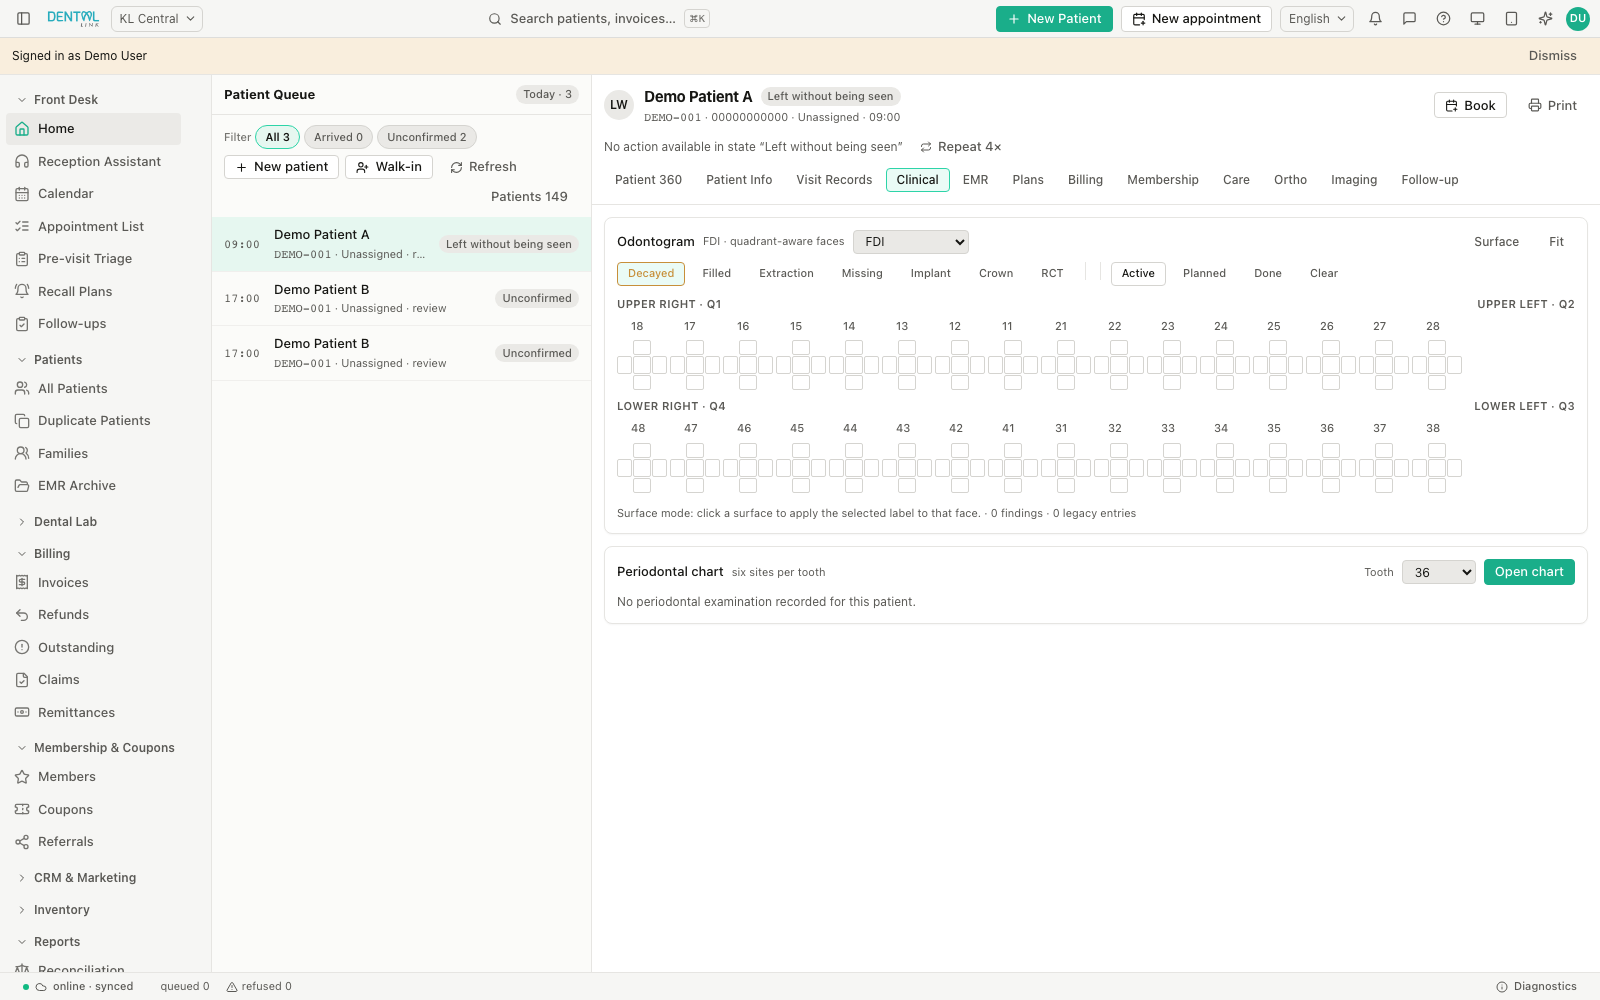
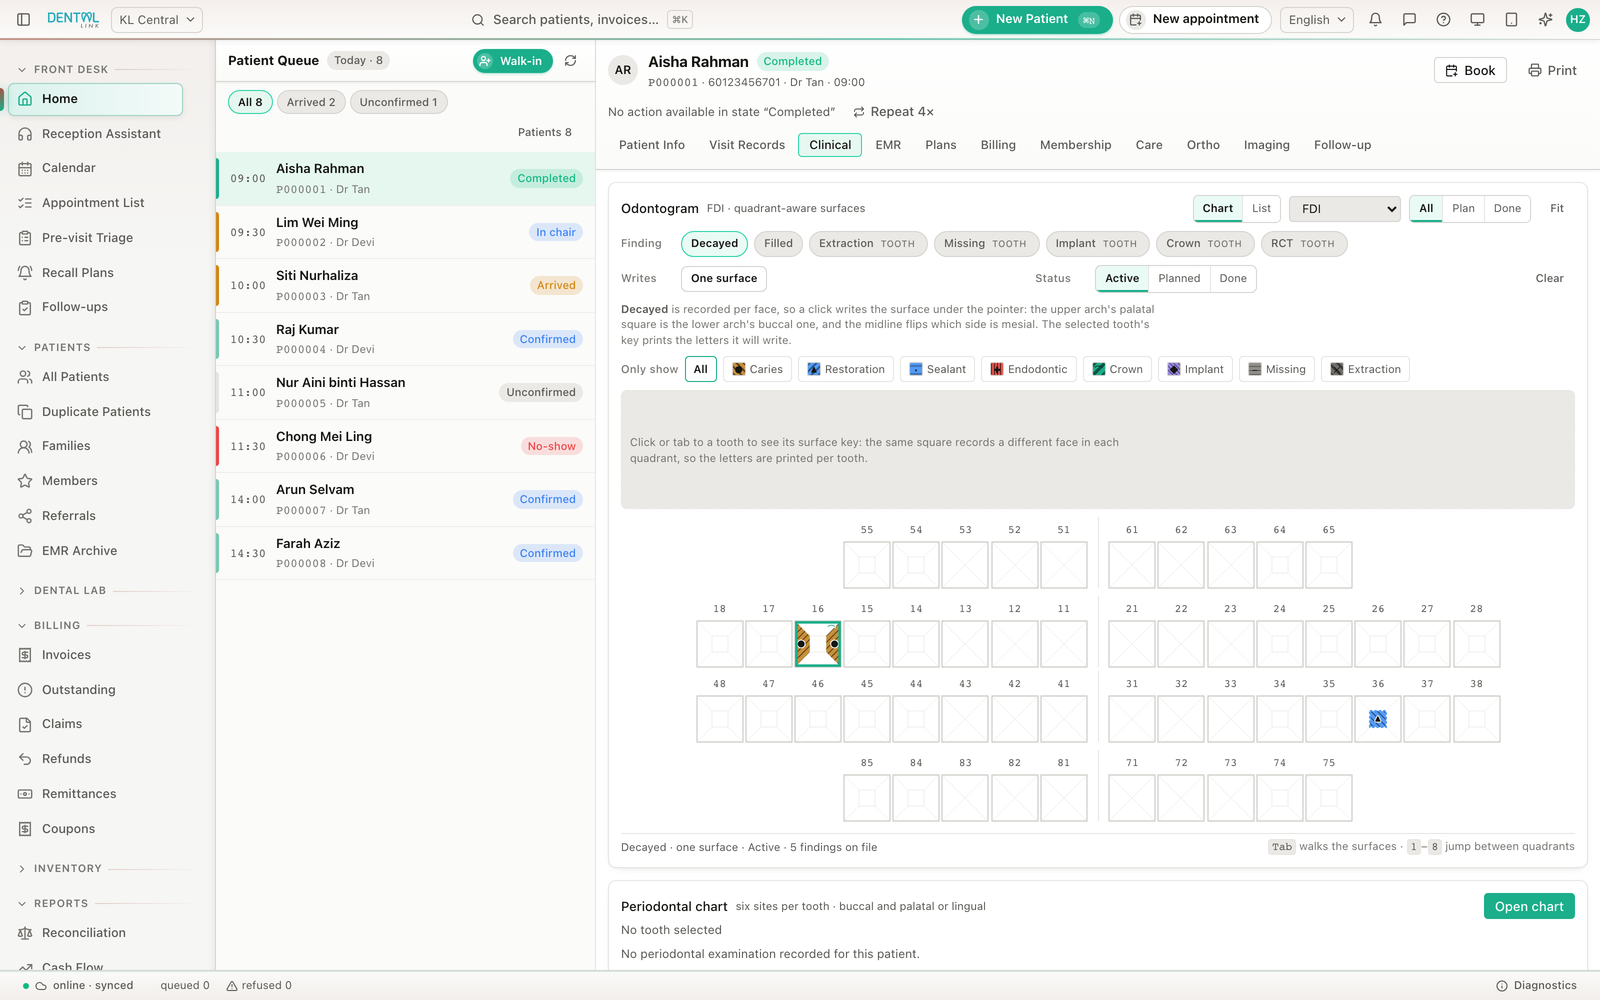
Refresh product screenshots from the current workstation UI
Re-capture the hero (Clinical tab with the patient queue and odontogram
findings) and the og:image (week calendar) from a local run of the current
build, seeded with scripts/seed-demo.mjs, at 1600x1000. Demo banner dismissed.
Update og:image:alt, which described the previous image.

diff --git a/index.html b/index.html
@@ -30,7 +30,7 @@
     <meta property="og:image:height" content="1000" />
     <meta
       property="og:image:alt"
-      content="The DentalLink workstation showing a clinic's patient queue and dental chart"
+      content="The DentalLink workstation showing a clinic's week of appointments"
     />
     <meta name="twitter:card" content="summary_large_image" />
     <link rel="icon" href="assets/images/dentallink_fav.ico" />
